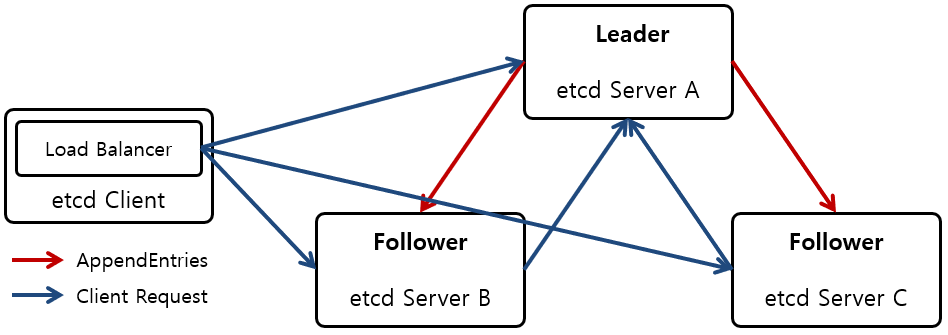
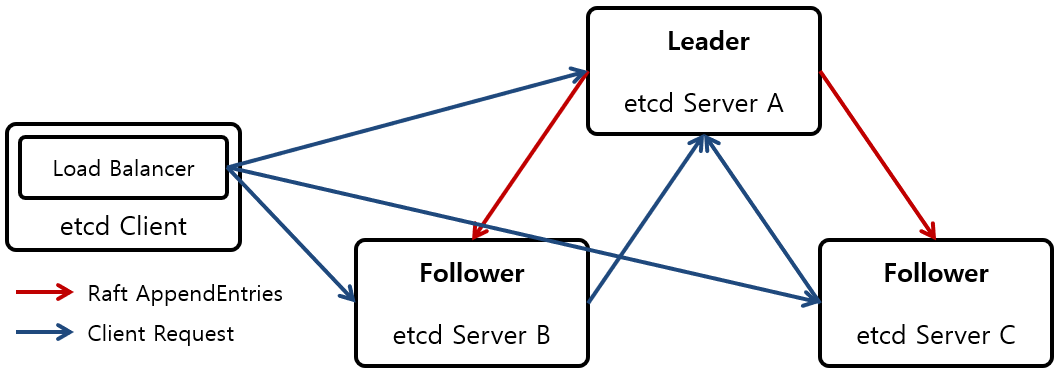
Update

diff --git a/_docs/theory_analysis/etcd.md b/_docs/theory_analysis/etcd.md
@@ -13,7 +13,7 @@ etcd를 분석한다.
 
 ![[그림 1] etcd Architecture]({{site.baseurl}}/images/theory_analysis/etcd/etcd_Architecture.PNG){: width="600px"}
 
-etcd는 High Availability를 제공하는 분산 Key-value 저장소이다. etcd는 **Raft Algorithm**을 이용하여 Consensus(동의)를 유지한다. [그림 1]은 etcd의 Architure를 나타내고 있다. Server는 Raft Algorithm에 따라서 **Leader**와 **Follower**로 역활이 나누어 진다. Leader는 Client의 요청에 따라서 Server Cluster에 저장되는 Data를 관리하는 역활을 수행하며, Data의 변경 내역은 AppendEntries를 통해서 Follower에게 전달된다. Follower는 Leader로 부터 전달받은 AppendEntries를 통해서 자신이 저장하고 있는 Data를 Leader가 저장하고 있는 Data와 일치시킨다.
+etcd는 High Availability를 제공하는 분산 Key-value 저장소이다. etcd는 **Raft Algorithm**을 이용하여 Consensus(동의)를 유지한다. [그림 1]은 etcd의 Architure를 나타내고 있다. Server는 Raft Algorithm에 따라서 **Leader**와 **Follower**로 역활이 나누어 진다. Leader는 Client의 요청에 따라서 Server Cluster에 저장되는 Data를 관리하는 역활을 수행하며, Data의 변경 내역은 Raft Algorithm의 AppendEntries를 통해서 Follower에게 전달된다. Follower는 Leader로 부터 전달받은 AppendEntries를 통해서 자신이 저장하고 있는 Data를 Leader가 저장하고 있는 Data와 일치시킨다.
 
 모든 Client의 요청은 Leader로 전달되며 Leader에서 처리된다. Client의 요청이 Follower에게 전달되면 Follower는 전달 받은 Client의 요청을 다시 Leader로 전달하고, Leader로 부터 요청에 대한 응답을 받아 Client에게 전달하는 Leader의 Proxy 역활을 수행한다. 일반적으로 Client는 각 Server들의 Endpoint(IP,Port) 정보를 갖고 있으며, Client 내부의 Load Balancer는 Server들의 Endpoint 정보를 바탕으로 Client가 접속하고 있는 Server의 장애 발생시 다른 Server로 연결하는 역활을 수행한다. 하지만 Client는 Client 내부의 Load Balancer를 이용할 필요 없으며, Server들을 묶어주는 외부의 Load Balancer를 이용해도 관계없다.
 

diff --git a/_docs/theory_analysis/Consul.md b/_docs/theory_analysis/Consul.md
@@ -1,0 +1,22 @@
+---
+title: Consul
+category: Theory, Analysis
+date: 2020-05-01T12:00:00Z
+lastmod: 2020-05-01T12:00:00Z
+comment: true
+adsense: true
+---
+
+Consul을 분석한다.
+
+### 1. Consul
+
+#### 1.1. Architecture
+
+![[그림 1] Consul Architecture]({{site.baseurl}}/images/theory_analysis/Consul/Consul_Architecture.PNG){: width="700px"}
+
+### 2. 참조
+
+* [https://www.consul.io/intro/index.html](https://www.consul.io/intro/index.html)
+* [https://www.consul.io/docs/internals/architecture.html]*(https://www.consul.io/docs/internals/architecture.html)
+* [https://www.consul.io/docs/internals/gossip.html](https://www.consul.io/docs/internals/gossip.html)
